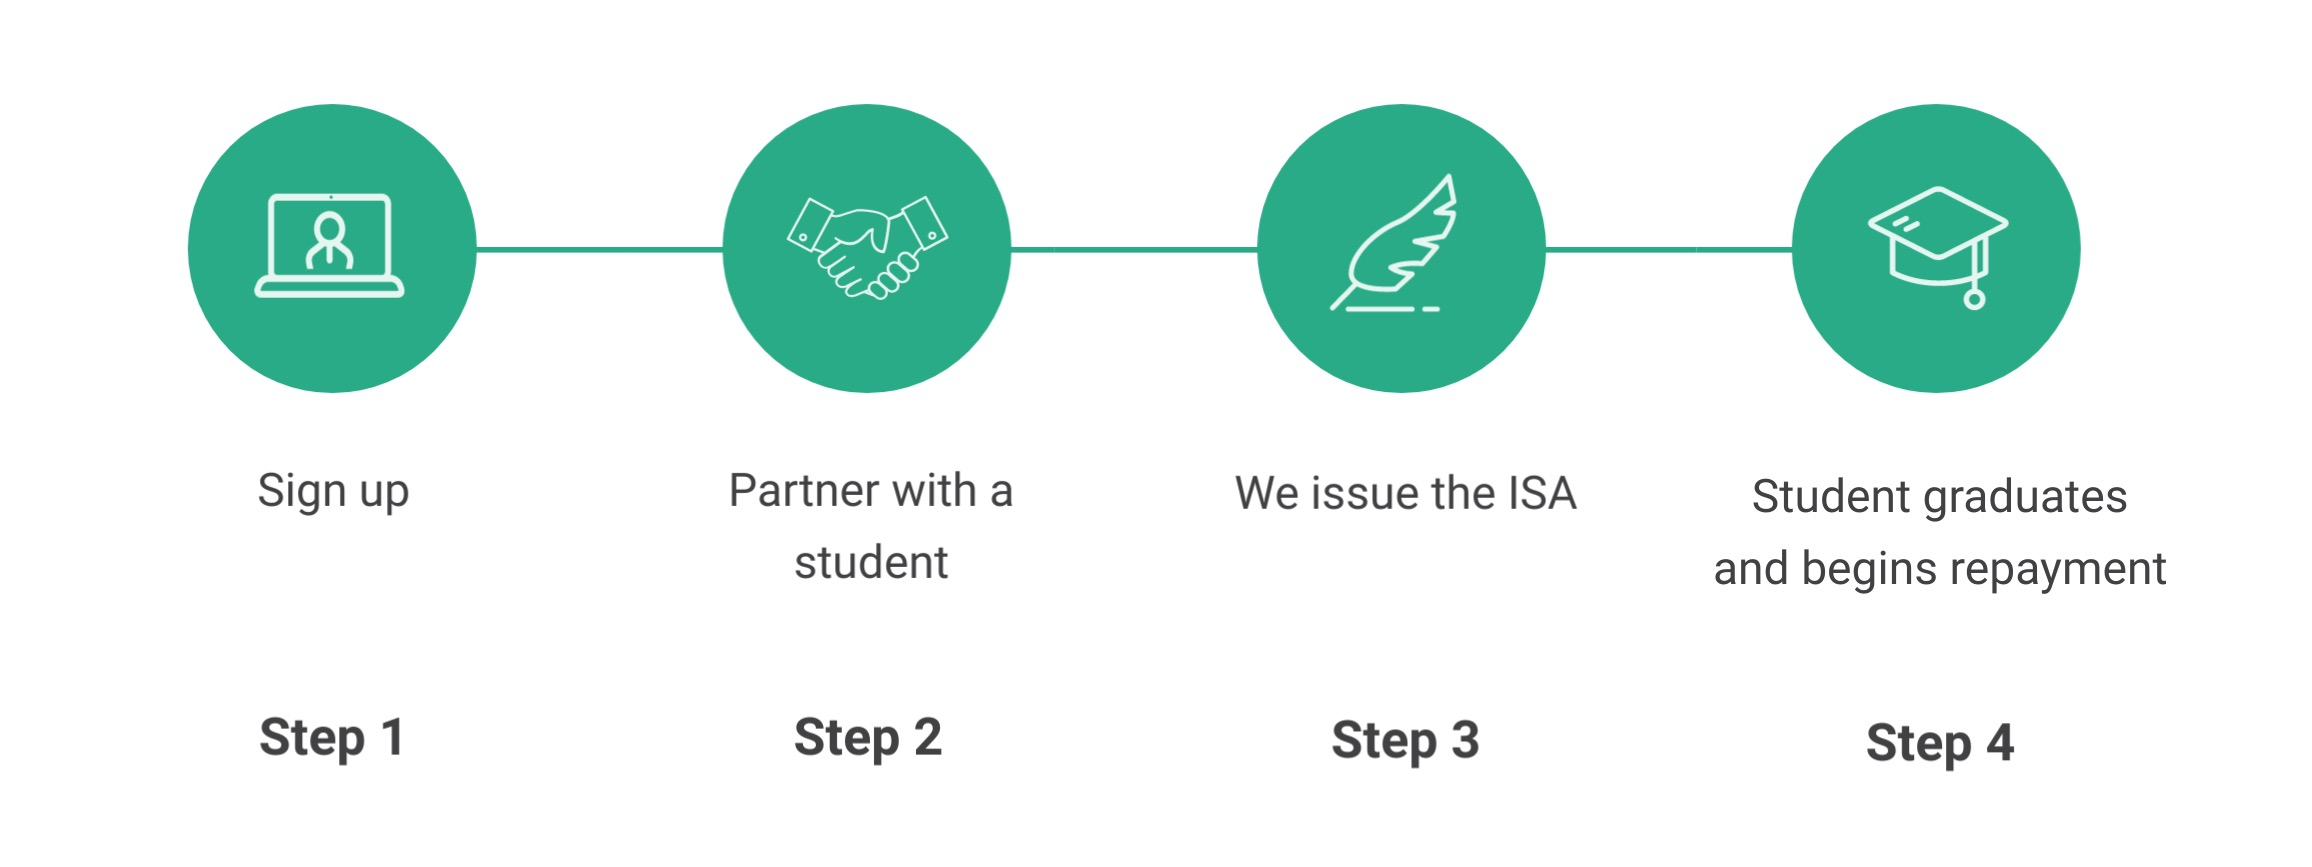
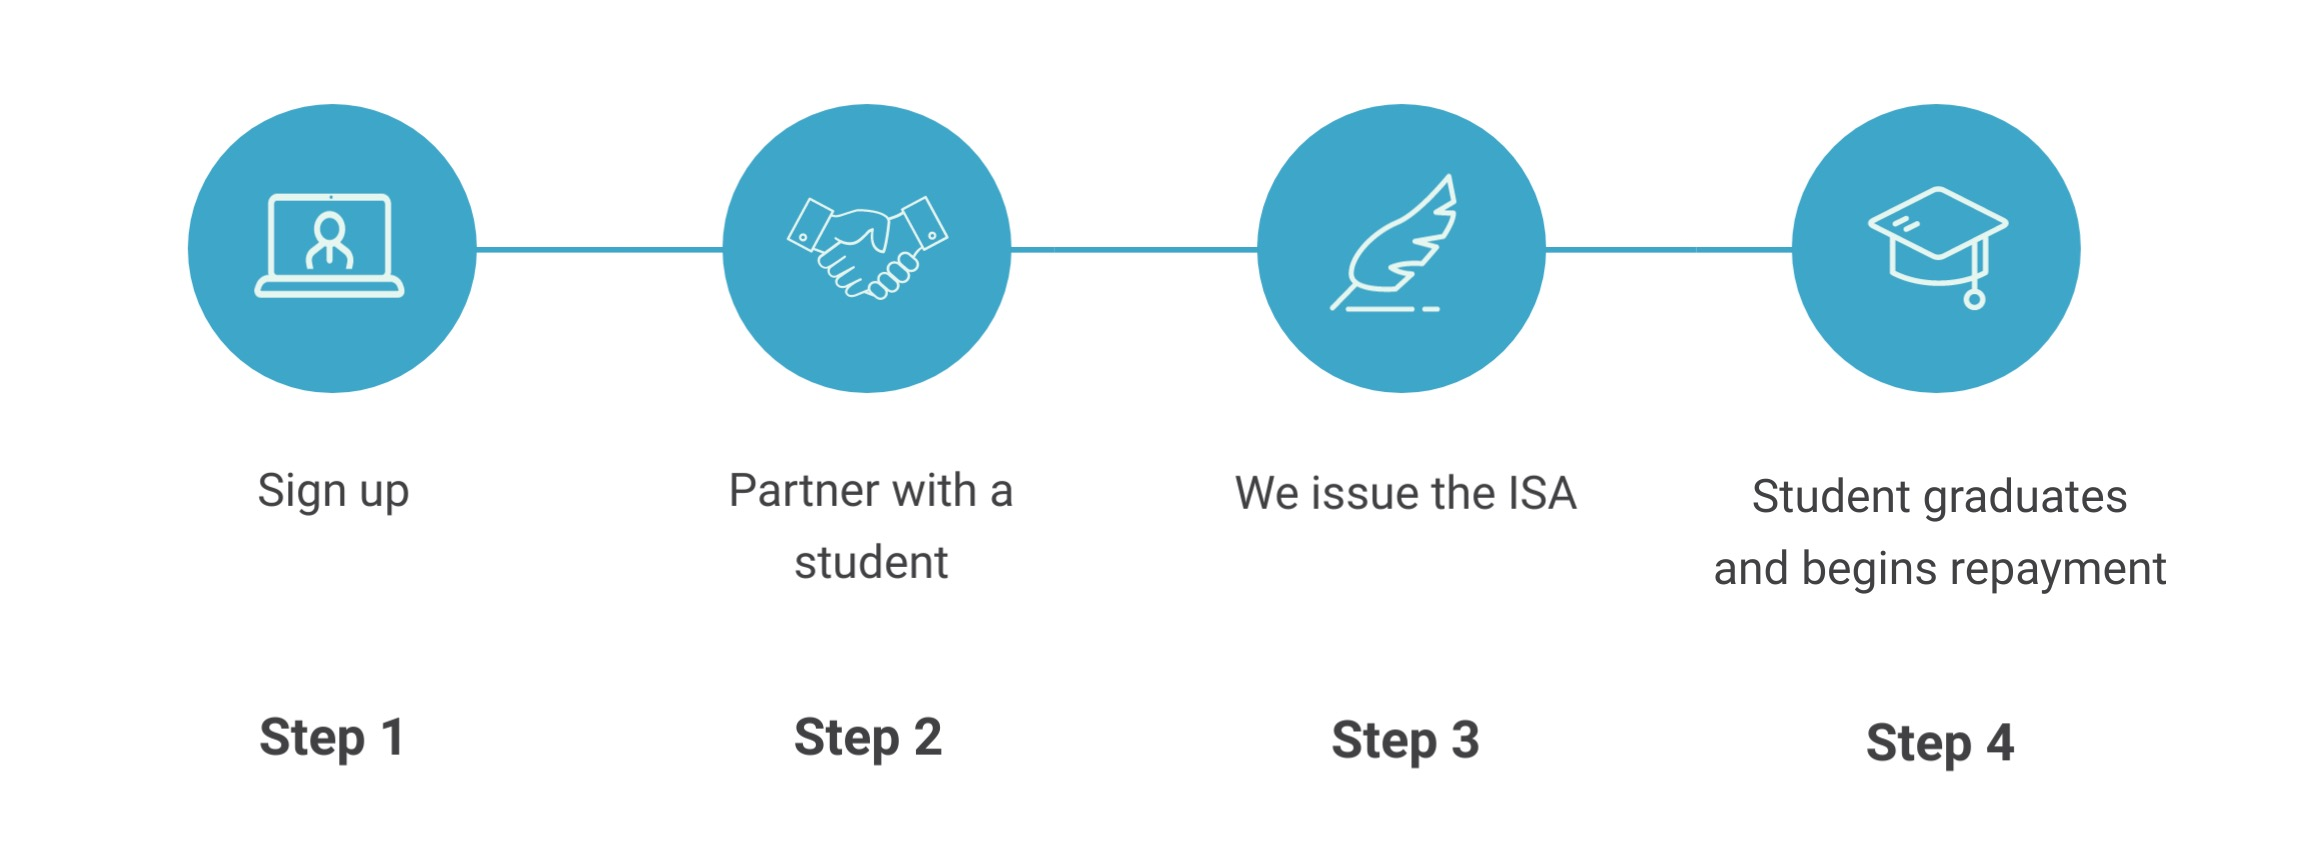
new color

Changed region(s): [[0.0623, 0.1246, 0.9031, 0.4671]]

diff --git a/src/pages/styles.scss b/src/pages/styles.scss
@@ -1,7 +1,7 @@
 @charset "utf-8";
 
 $success: rgb(199,221,219);
-$primary: rgb(41, 171, 135);
+$primary: #3ea6c8;
 $warning: rgb(255,242,219);
 $info:rgb(245, 248, 250);
 $footer: rgb(124, 124, 124);

diff --git a/content/blog/what-are-student-loans/index.md b/content/blog/what-are-student-loans/index.md
@@ -171,7 +171,7 @@ From a purely financial sense, ISAs make sense. You will owe a similar amount or
 
 You only pay more if you make more (which we believe a partnership with a mentor and the aligned incentives of an ISA help increase your earnings potential).
 
-The true power of ISAs is not a replacement to debt, but rather as a tool to create a team with a mentor. We believe mentors provide value through their network, career advice, and recruiting help, which will ultimately lead to better career outcomes for the student.
+The true power of ISAs is not as a replacement to debt, but rather as a tool to create a team with a mentor. We believe mentors provide value through their network, career advice, and recruiting help, which will ultimately lead to better career outcomes for the student.
 
 If there was no mentor involved and you were merely using the ISA as a replacement for debt, it would almost be a bet against yourself. It’s giving up some of the upside of your earnings potential in exchange for downside financial protection in the case that you fail - you pay much less or nothing if you have a low income.
 
